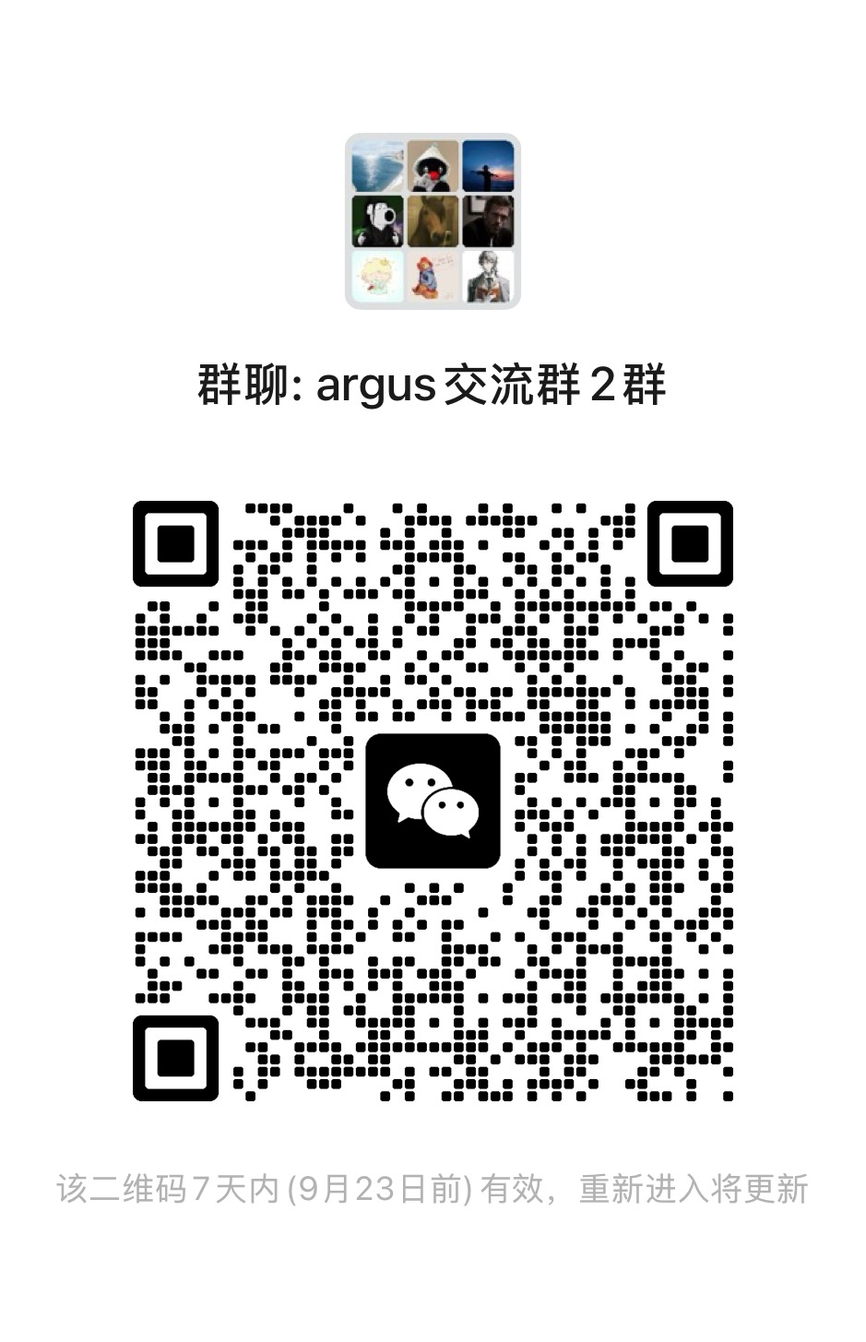
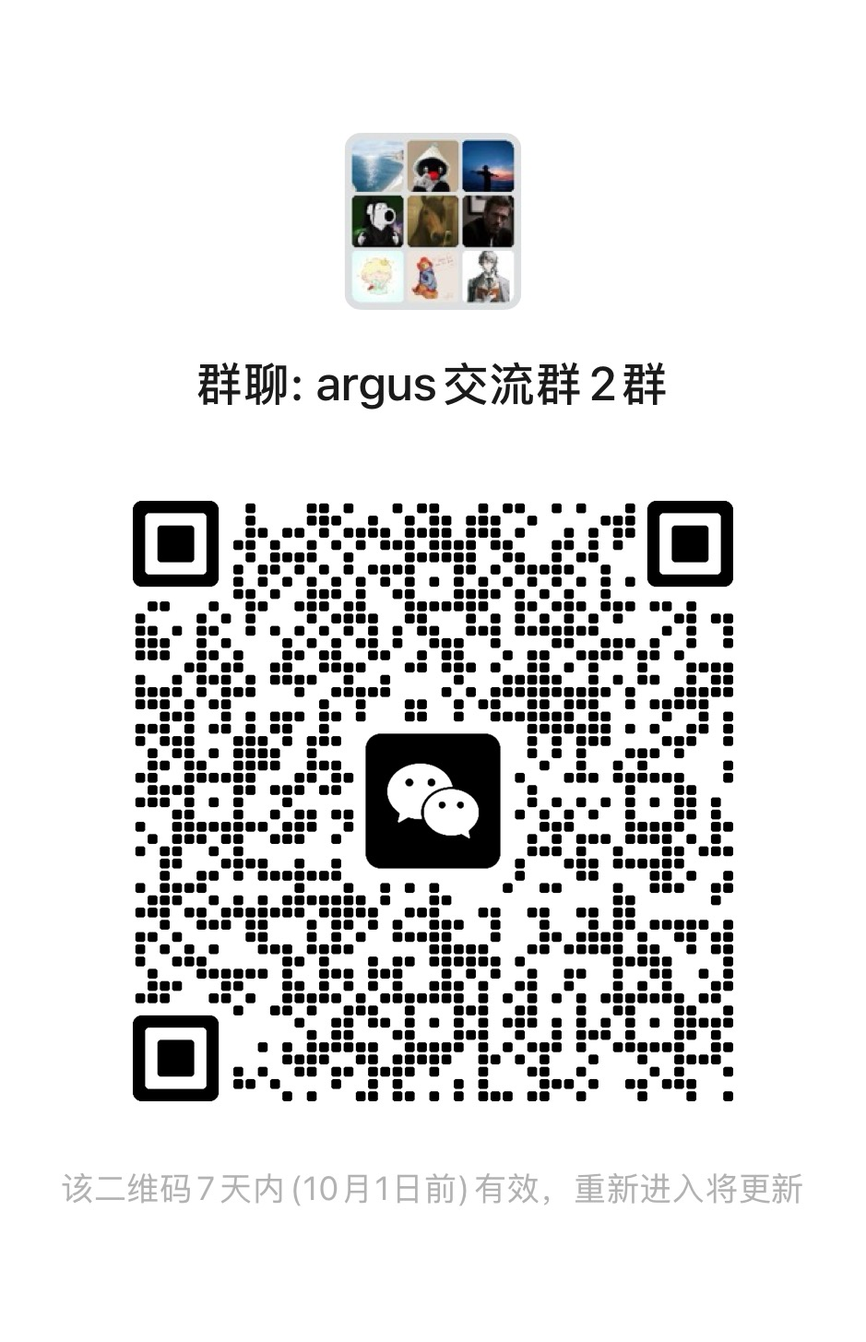
Update Windows/Mac releases and September 24 community QR (#57)
Publish independent Windows v0.1.8 / Mac v0.1.9 / Linux and Python v0.1.6 downloads, accurate release/source boundaries, and the new bilingual community QR.

diff --git a/src/data/projects.ts b/src/data/projects.ts
@@ -48,6 +48,9 @@ export type Project = {
 
 export const windowsReleaseNotes = {
   en: [
+    `Windows v${desktopRelease.windows.version} keeps in-memory drafts and attachments per session and protects new input during uploads or sends. This does not preserve drafts across a page refresh. Notifications open the corresponding session's result while respecting your latest navigation.`,
+    "Plugins, Skills and Knowledge now sit above the session list. Source-bound Chinese names, guides and search cover 211 bundled Skills and references without replacing their execution text or rewriting user and third-party files. Read-only diffs offer highlighting, original text and copy; Windows knowledge reads handle CRLF newlines.",
+    "This installer uses a frozen development branch and does not include the later main-branch research orchestration, mission-recovery and runtime-incident fixes. A newer source snapshot is not an installer feature list.",
     `Windows v${desktopRelease.windows.version} defaults to the map when no workspace is explicitly selected or saved. Its Skill file browser covers global, vertical and project Skills with recent updates; these are reusable files, not proof of model-weight training.`,
     "Interactive research proposals support duration, resource, dependency and deadline planning, plus version comparison. Saving a proposal does not launch experiments or change the backlog; estimates are not guaranteed deadlines.",
     "Ordinary research reading includes “Ask this step”: a valid saved source and explicit submission are required; read-only views cannot submit. Answers use the saved explanation and its task/event snapshots, are saved separately without changing research tasks, and do not count as research progress. Problem background notes remain an opt-in experimental preview. Generation uses a model and counts toward usage; teaching review is not scientific acceptance.",
@@ -55,6 +58,9 @@ export const windowsReleaseNotes = {
     "Own-account cost accounting distinguishes priced and unresolved usage: the default unpriced-cost policy can stop later own-account calls. Trial users' local dollar records remain not_billed; trial token quotas are enforced server-side. This is not a universal block across modes.",
   ],
   zh: [
+    `Windows v${desktopRelease.windows.version} 按会话保留内存草稿与附件，并保护上传或发送过程中的新输入；不保证刷新页面后仍保留草稿。通知可定位对应会话的成果，同时尊重用户最近一次导航。`,
+    "插件、技能库和知识库入口集中到会话列表上方。211 项随包技能与参考资料提供来源绑定的中文名称、导读和搜索，不替换执行原文，也不改写用户或第三方文件。只读 diff 支持着色、原文与复制，知识库读取兼容 Windows CRLF 换行。",
+    "此安装包基于冻结的开发分支，不包含随后 main 合入的研究编排、任务恢复及运行时 incident 修复；不能把最新源码变化全部算作安装包功能。",
     `Windows v${desktopRelease.windows.version} 在没有显式选择或已保存工作区时默认进入地图。Skill 文件浏览器覆盖全局、领域和项目 Skills，并展示最近更新；这些是可复用文件，不是模型权重训练的证明。`,
     "交互式研究方案支持时长、资源、依赖和截止日期规划，以及版本比较。保存方案不会启动实验或改变 backlog；估算不等于保证按期完成。",
     "普通研究阅读已包含“问这一步”：需有有效的已保存来源并由用户明确提交，只读视图不能提交新问题。回答依据保存的说明与任务／事件快照另存，不修改研究任务，也不算新的研究进展。问题基础说明仍是需显式启用的实验预览。生成过程调用模型并计入用量；教学复核不等于科研结论验收。",
@@ -63,10 +69,28 @@ export const windowsReleaseNotes = {
   ],
 } as const;
 
+export const macReleaseNotes = {
+  en: [
+    `Mac v${desktopRelease.mac.version} ships separate Apple Silicon and Intel DMGs for macOS 13+. It bundles the frozen Python backend and Web workbench; trial setup needs no preinstalled Python, uv or Node.js. Own-account use still requires the chosen Agent CLI and its account.`,
+    "Finder launches now discover Homebrew CLIs on both architectures and locate Node for npm-installed CLI scripts, without editing shell startup files or the system PATH. Connection failures retain specific errors while hiding the trial Key.",
+    "Download this Mac update manually from its versioned release page: GitHub's Latest marker remains on the Windows release. Stop the local backend and quit before replacing the app, eject the DMG, then launch from Applications. The app is not Apple Developer ID signed or notarized; use Privacy & Security → Open Anyway if blocked, without disabling Gatekeeper.",
+    "The release reports a real Copilot-account reply on Apple Silicon, not verification of every backend account or long-running research task. Existing Codex, Claude, Cursor, Pi and other backend choices remain available.",
+  ],
+  zh: [
+    `Mac v${desktopRelease.mac.version} 分别提供 Apple Silicon 与 Intel DMG，最低 macOS 13。包内带冻结 Python 后端和 Web 工作台；试用无需预装 Python、uv 或 Node.js。自带账号仍需准备所选 Agent CLI 与对应账号。`,
+    "修复 Finder 启动时找不到两种架构的 Homebrew CLI，以及 npm 安装的 CLI 找不到 Node 的问题；不修改 shell 启动文件或系统 PATH。连接失败保留具体错误，并隐藏试用 Key。",
+    "本次 Mac 更新请从对应版本发布页手动下载：GitHub 的 Latest 标记仍留给 Windows。替换前先停止本地后端并退出，安装后弹出 DMG，再从“应用程序”启动。应用未经过 Apple Developer ID 签名和公证；被阻止时使用“隐私与安全性 → 仍要打开”，不要关闭 Gatekeeper。",
+    "发行说明记录了 Apple Silicon 上个人 Copilot 账号的真实回复，不代表每种后端账号或长程科研任务均已实测。既有 Codex、Claude、Cursor、Pi 等后端入口仍保留。",
+  ],
+} as const;
+
 export const sourcePreviewNotes = {
   en: [
-    `Post-release source preview reviewed ${sourcePreview.reviewedOn} at ${sourcePreview.revision}: lbx154/Argus main now separates 7 built-in verticals from 17 preexisting community domain packs. Windows v${sourcePreview.windowsBaseline} predates this split and retains 24 built-in verticals; Mac / Linux remain at v${sourcePreview.macLinuxBaseline}. These source changes do not imply synchronization to microsoft/ArgusAgent.`,
-    `The source-only Vertical Store adds CLI, API and UI access to individual community packs; it is not included in Windows v${sourcePreview.windowsBaseline}. Packs install without pip, and dependency listings do not automatically install scientific Python dependencies. Hosted installation and other shared changes remain operator-controlled, while personal enable/disable choices stay separate. A project whose persisted vertical is missing is held rather than silently switched to research.`,
+    `Development-source snapshot reviewed ${sourcePreview.reviewedOn} at ${sourcePreview.revision}. Release channels remain separate: ${desktopRelease.platformVersionLabel}. These source changes do not imply synchronization to microsoft/ArgusAgent or inclusion in every desktop package.`,
+    "The knowledge browser separates global, vertical and project pages with search and recent updates. Latest main names the originating project in the knowledge feed and records Manager tool activity during chat turns, instead of equating every reply with a completed research task. Saved knowledge and Skills are reusable artifacts, not model-weight training.",
+    "The research map presents work and review stages, recorded dependencies and mobile-friendly readers. Generated explanations and relationship labels do not change scheduling dependencies, rerun experiments or establish scientific acceptance; model-generated reading still counts toward usage.",
+    "TypeScript migration is only beginning: shared event contracts and an experimental Pi streaming adapter are available in source. Python still owns production task state, budgets and stage transitions. The adapter is not a replacement argus command or a budgeted mission runner; full runtime parity is not claimed.",
+    `Windows v${desktopRelease.windows.version} and Mac v${desktopRelease.mac.version} now include the 7-built-in / 17-community split and Vertical Store; Linux v${desktopRelease.linux.version} predates it. Packs install without pip, and dependency listings do not automatically install scientific Python dependencies. Hosted shared changes remain operator-controlled, while personal enable/disable choices stay separate.`,
     "For source developers, the Python package migrates from argus_skill to argus, with compatibility aliases for one release. Existing state locations and environment-variable spellings stay unchanged. This source migration does not require desktop users to reinstall.",
     "Hosted features require independent operator deployment and invitation-based authorization; ordinary desktop or Web installation does not enable the service. Hosted model and compute allowances remain separate from the desktop Key's one-million-token rule.",
     "Raw process observations cover Manager, Planner, Engineer and Reviewer records, including failed and interrupted attempts. Export checks purpose-specific authorization and revocation, but does not require per-sample quality approval or certify training readiness. Observations retain the application's system/developer inputs while excluding structured hidden reasoning and signatures; inspect and redact them before sharing.",
@@ -74,8 +98,11 @@ export const sourcePreviewNotes = {
     "Community or plugin Skills are not automatically approved assets for strict public/SFT export; their availability or license does not replace authorization, review or filtering.",
   ],
   zh: [
-    `${sourcePreview.reviewedOn} 核对的发布后源码预览（${sourcePreview.revision}）：lbx154/Argus main 现将 7 个内置领域与 17 个既有社区领域包分开。Windows v${sourcePreview.windowsBaseline} 早于此次拆分，仍内置 24 个领域；Mac / Linux 仍为 v${sourcePreview.macLinuxBaseline}。这些源码改动不代表 microsoft/ArgusAgent 已同步。`,
-    `仅后续源码提供的 Vertical Store 支持通过 CLI、API 和 UI 按领域获取社区包，Windows v${sourcePreview.windowsBaseline} 不包含 Store。领域包安装无需 pip，依赖清单也不会自动安装科学 Python 依赖。托管环境的安装及其他共享变更由运营方控制，个人启用／停用选择与之分开。若项目持久化记录的领域缺失，会暂缓执行，而不是静默切回 research 领域。`,
+    `${sourcePreview.reviewedOn} 核对的开发源码快照（${sourcePreview.revision}）。发行渠道仍需区分：${desktopRelease.platformVersionLabel}。这些源码改动不代表 microsoft/ArgusAgent 已同步，也不代表每个平台的安装包都已包含。`,
+    "知识库按全局、领域和项目分层，支持搜索与最近更新。最新 main 会在知识动态中显示来源项目，并记录聊天期间 Manager 的工具活动，不把每次回复等同于完成科研任务。保存的知识与 Skills 是可复用产物，不是模型权重训练。",
+    "研究地图呈现执行与验收阶段、已记录的依赖和适合手机阅读的详情。生成的解释与关系标签不改变调度依赖、不重跑实验，也不构成科研验收；模型生成的阅读说明仍计入用量。",
+    "TypeScript 迁移刚起步：源码已提供共享事件协议与实验性 Pi 流式适配器。生产任务状态、预算与阶段转换仍由 Python 管理；适配器不是 argus 命令或带预算的任务执行器替代品，也未宣称完整运行时等价。",
+    `Windows v${desktopRelease.windows.version} 与 Mac v${desktopRelease.mac.version} 已包含 7 个内置领域／17 个社区领域的拆分和 Vertical Store；Linux v${desktopRelease.linux.version} 早于此次变化。领域包安装无需 pip，依赖清单也不会自动安装科学 Python 依赖。托管共享变更仍由运营方控制，个人启用／停用选择与之分开。`,
     "面向源码开发者，Python 包从 argus_skill 迁移至 argus，旧名称兼容别名保留一个版本。既有状态位置和环境变量拼写不变；这次源码迁移不要求桌面用户重新安装。",
     "托管功能需要运营方独立部署和邀请授权，不会随普通桌面版或 Web 安装自动开放；模型与计算额度独立于桌面 Key 的 100 万 token 规则。",
     "原始过程观察覆盖 Manager、Planner、Engineer 与 Reviewer 的记录，包括失败和中断的尝试。导出检查用途授权与撤销状态，但不要求逐样本质量审批，也不代表已达到训练质量。观察记录会保留应用侧 system/developer 输入，排除结构化隐藏推理与签名；分享前需人工检查和脱敏。",
@@ -159,9 +186,10 @@ export const projects: Project[] = [
         "Durable project state retains tasks, checkpoints, decisions, skills, and evidence across sessions and runtime upgrades.",
         "The technical report records about 78% on SWE-Bench Pro versus 59% for Direct Copilot, with 1.41× aggregate tokens.",
         "Six paper pipelines completed 254 missions with 16 stage rollbacks recorded in the report.",
-        `Since v${desktopRelease.macLinux.version}, desktop releases include Change Key controls that preserve projects and chat history, current backend/model/reasoning display, clearer theme icons and responsive titles. Account fences remain paused until explicit resumption; execution ending does not certify the research objective as complete.`,
-        `Since v${desktopRelease.macLinux.version}, desktop releases include streamed Manager replies and tool-call display, map and activity-feed improvements, Excel (.xlsx) delivery recognition and optional workbench host integration. The bundled runtime supports stdin scripts (python -) and python -m unittest with test-failure exit codes preserved; it is not a general-purpose Python installation and provides neither pip nor venv.`,
+        `Since v${desktopRelease.linux.version}, desktop releases include Change Key controls that preserve projects and chat history, current backend/model/reasoning display, clearer theme icons and responsive titles. Account fences remain paused until explicit resumption; execution ending does not certify the research objective as complete.`,
+        `Since v${desktopRelease.linux.version}, desktop releases include streamed Manager replies and tool-call display, map and activity-feed improvements, Excel (.xlsx) delivery recognition and optional workbench host integration. The bundled runtime supports stdin scripts (python -) and python -m unittest with test-failure exit codes preserved; it is not a general-purpose Python installation and provides neither pip nor venv.`,
         ...windowsReleaseNotes.en,
+        ...macReleaseNotes.en,
         ...sourcePreviewNotes.en,
       ],
       zh: [
@@ -169,9 +197,10 @@ export const projects: Project[] = [
         "持久化项目状态能够跨会话和运行时升级保留任务、检查点、决策、Skills 与证据。",
         "技术报告记录 SWE-Bench Pro 约 78%，Direct Copilot 为 59%，总 Token 使用量为 1.41 倍。",
         "报告中的六条论文流水线共完成 254 个 mission，并发生 16 次阶段回滚。",
-        `自 v${desktopRelease.macLinux.version} 起，桌面版已包含保留项目和聊天记录的更换 Key 入口、当前后端／模型／推理强度显示，以及更清晰的日夜图标和响应式标题。账户阻塞会保留为暂停，需显式恢复；执行结束不等于研究目标已通过验收。`,
-        `自 v${desktopRelease.macLinux.version} 起，桌面版已包含 Manager 流式回复与工具调用展示、地图和活动记录改进、Excel（.xlsx）交付识别及可选工作台宿主集成。内置运行时支持标准输入脚本（python -）与 python -m unittest，保留测试失败退出码；它不是完整的通用 Python 环境，不提供 pip 或 venv。`,
+        `自 v${desktopRelease.linux.version} 起，桌面版已包含保留项目和聊天记录的更换 Key 入口、当前后端／模型／推理强度显示，以及更清晰的日夜图标和响应式标题。账户阻塞会保留为暂停，需显式恢复；执行结束不等于研究目标已通过验收。`,
+        `自 v${desktopRelease.linux.version} 起，桌面版已包含 Manager 流式回复与工具调用展示、地图和活动记录改进、Excel（.xlsx）交付识别及可选工作台宿主集成。内置运行时支持标准输入脚本（python -）与 python -m unittest，保留测试失败退出码；它不是完整的通用 Python 环境，不提供 pip 或 venv。`,
         ...windowsReleaseNotes.zh,
+        ...macReleaseNotes.zh,
         ...sourcePreviewNotes.zh,
       ],
     },
@@ -186,6 +215,8 @@ export const projects: Project[] = [
       { kind: "report", href: "https://arxiv.org/abs/2608.05144" },
       { kind: "status", href: sourcePreview.changesUrl },
       { kind: "documentation", href: sourcePreview.hostedGuideUrl },
+      { kind: "documentation", href: sourcePreview.mapGuideUrl },
+      { kind: "documentation", href: sourcePreview.typescriptGuideUrl },
     ],
   },
   {
@@ -244,14 +275,14 @@ export const projects: Project[] = [
     },
     highlights: {
       en: [
-        `Version 0.4.0 is independently distributed. Desktop releases since v${desktopRelease.macLinux.version} include its host integration, but CrystalPilot still requires separate installation; no workbench plugin is enabled by default.`,
+        `Version 0.4.0 is independently distributed. Desktop releases since v${desktopRelease.linux.version} include its host integration, but CrystalPilot still requires separate installation; no workbench plugin is enabled by default.`,
         "Compatible hosts install the pinned, SHA-256-checked package from the plugin center into an isolated environment. Supported backends are Codex, Copilot and Pi, including supported mixed-role configurations.",
         "Prepares scientific dependencies automatically; optional or licensed dependencies remain explicit. SHELX requires authorization from its author. Scientific binaries, model credentials and research datasets are not bundled in the distribution.",
         "Separate workbench conversations and project bindings preserve ownership. Updates are manual and staged; uninstalling preserves research data, conversations and reusable software.",
         "Proprietary: TopoSpace reserves all rights and prohibits unauthorized commercial use or derivative development. Public source availability is not an open-source license; the host integration and third-party components have separate terms.",
       ],
       zh: [
-        `0.4.0 独立分发；桌面版自 v${desktopRelease.macLinux.version} 起已包含宿主集成，但 CrystalPilot 仍需单独安装，默认不启用任何工作台插件。`,
+        `0.4.0 独立分发；桌面版自 v${desktopRelease.linux.version} 起已包含宿主集成，但 CrystalPilot 仍需单独安装，默认不启用任何工作台插件。`,
         "兼容宿主通过插件中心安装固定版本、经过 SHA-256 核对的软件包，并使用隔离环境；支持 Codex、Copilot、Pi 及这些后端的混合角色配置。",
         "自动准备科学依赖，缺失的可选或授权组件会明确提示；SHELX 需向原作者取得许可。发行物不包含上游科学二进制、模型凭据或研究数据。",
         "独立工作台会话与项目绑定保留权属边界；更新需手动触发并分阶段切换，卸载保留研究数据、对话和可复用软件。",
@@ -260,13 +291,13 @@ export const projects: Project[] = [
     },
     outcome: {
       en: `Optional CrystalPilot 0.4.0 for compatible Argus hosts, including ${desktopRelease.platformVersionLabel}.`,
-      zh: `为兼容的 Argus 宿主提供可选 CrystalPilot 0.4.0，包括 Windows v${desktopRelease.windows.version} 与 Mac / Linux v${desktopRelease.macLinux.version}。`,
+      zh: `为兼容的 Argus 宿主提供可选 CrystalPilot 0.4.0，包括 ${desktopRelease.platformVersionLabel}。`,
     },
     technologies: ["Crystallography", "Python", "Codex / Copilot / Pi", "Bilingual"],
     links: [
       { kind: "documentation", href: "https://crystalpilot-downloads.argusbot.cn/" },
-      { kind: "status", href: desktopRelease.macLinux.workbenchGuideUrl },
-      { kind: "license", href: `${desktopRelease.macLinux.workbenchGuideUrl}#crystalpilot-licensing` },
+      { kind: "status", href: desktopRelease.linux.workbenchGuideUrl },
+      { kind: "license", href: `${desktopRelease.linux.workbenchGuideUrl}#crystalpilot-licensing` },
     ],
   },
   {
@@ -275,8 +306,8 @@ export const projects: Project[] = [
     status: "active",
     title: "Argus Verticals",
     description: {
-      en: "Published MIT community domain packs for compatible post-release Argus source, not a desktop Store release.",
-      zh: "已发布的 MIT 社区领域包，面向兼容的 Argus 发布后源码，不是桌面 Store 发行版。",
+      en: "Published MIT community domain packs for compatible Argus source and the newer Windows and Mac desktop releases.",
+      zh: "已发布的 MIT 社区领域包，支持兼容的 Argus 源码及新版 Windows、Mac 桌面宿主。",
     },
     problem: {
       en: "Specialist Skills should be available per domain without bundling every field into the runtime. Argus Verticals separates reusable community packs from core built-ins and independently licensed workbenches.",
@@ -286,15 +317,15 @@ export const projects: Project[] = [
       en: [
         "Published 2026-09-14: MIT v0.1.0 provides 17 per-domain ZIP assets plus catalog.json and SHA256SUMS.",
         "These are 17 preexisting domains split out from Argus, spanning chips, circuits, materials, biomedical evidence, physics, quantitative research, literary research and benchmarks—not 17 new research results.",
-        `Requires compatible Argus source after the September 14 split and package rename. That source keeps 7 built-in verticals; Windows v${desktopRelease.windows.version} predates the split, keeps 24 built-in verticals and does not include the Vertical Store.`,
-        "The source Vertical Store installs individual domain packs without pip. It lists dependencies but does not automatically install scientific Python dependencies; hosted shared changes remain operator-controlled and personal enable/disable choices remain separate.",
+        `Windows v${desktopRelease.windows.version}, Mac v${desktopRelease.mac.version} and compatible source include the Vertical Store and keep 7 built-in verticals. Linux v${desktopRelease.linux.version} predates this split; its package is not upgraded by the newer releases on other platforms.`,
+        "The Vertical Store installs individual domain packs without pip. It lists dependencies but does not automatically install scientific Python dependencies; hosted shared changes remain operator-controlled and personal enable/disable choices remain separate.",
         "MIT community Skills are separate from proprietary CrystalPilot and do not bundle its scientific environment. Installing a pack does not approve its contents for strict public/SFT export or establish scientific results.",
       ],
       zh: [
         "2026-09-14 已发布：MIT 许可的 v0.1.0 提供 17 个按领域分发的 ZIP 资产，以及 catalog.json 和 SHA256SUMS。",
         "这是从 Argus 拆出的 17 个既有领域，涵盖芯片、电路、材料、生物医学证据、物理、量化研究、文学研究和基准测试，不是 17 项新的科研成果。",
-        `需要兼容 9 月 14 日领域拆分及包重命名之后的 Argus 源码。该源码保留 7 个内置领域；Windows v${desktopRelease.windows.version} 早于拆分，仍内置 24 个领域，且不包含 Vertical Store。`,
-        "源码 Vertical Store 按领域安装社区包，无需 pip；它列出依赖，但不会自动安装科学 Python 依赖。托管共享变更仍由运营方控制，个人启用／停用选择与之分开。",
+        `Windows v${desktopRelease.windows.version}、Mac v${desktopRelease.mac.version} 及兼容源码已包含 Vertical Store，并保留 7 个内置领域。Linux v${desktopRelease.linux.version} 早于此次拆分，不会因其他平台发布新版而自动获得这些变化。`,
+        "Vertical Store 按领域安装社区包，无需 pip；它列出依赖，但不会自动安装科学 Python 依赖。托管共享变更仍由运营方控制，个人启用／停用选择与之分开。",
         "MIT 社区 Skills 与专有 CrystalPilot 相互独立，不包含其科学环境。安装领域包不等于内容已获严格 public/SFT 导出批准，也不证明科研结论。",
       ],
     },

diff --git a/src/data/desktopRelease.ts b/src/data/desktopRelease.ts
@@ -10,15 +10,17 @@ function releaseMetadata(version: string) {
   };
 }
 
-const windows = releaseMetadata("0.1.7");
-const macLinux = releaseMetadata("0.1.6");
-const { version, assetsUrl: assets } = macLinux;
+const windows = releaseMetadata("0.1.8");
+const mac = releaseMetadata("0.1.9");
+const linux = releaseMetadata("0.1.6");
+const { version, assetsUrl: assets } = linux;
 
 export const desktopRelease = {
   windows,
-  macLinux,
+  mac,
+  linux,
   platforms: "Windows / Mac / Linux",
-  platformVersionLabel: `Windows v${windows.version} · Mac / Linux v${macLinux.version}`,
+  platformVersionLabel: `Windows v${windows.version} · Mac v${mac.version} · Linux v${linux.version}`,
   python: {
     version,
     wheelUrl: `${assets}/argus_skill-${version}-py3-none-any.whl`,
@@ -32,35 +34,35 @@ export const desktopRelease = {
       platform: "Windows 10/11",
       architecture: "x64",
       format: "EXE",
-      size: "33.6 MiB",
+      size: "49.3 MiB",
       downloadUrl: `${windows.assetsUrl}/Argus-${windows.version}-setup.exe`,
       signatureUrl: `${windows.assetsUrl}/Argus-${windows.version}-setup.exe.sig`,
[2 lines of base64/hex data omitted]
     },
     {
-      ...macLinux,
+      ...mac,
       id: "macos-aarch64",
       os: "macos",
       platform: "macOS 13+",
       architecture: "Apple Silicon",
       format: "DMG",
-      size: "47.0 MiB",
-      downloadUrl: `${assets}/Argus-${version}-macos-aarch64.dmg`,
[1 lines of base64/hex data omitted]
+      size: "101.7 MiB",
+      downloadUrl: `${mac.assetsUrl}/Argus-${mac.version}-macos-aarch64.dmg`,
[1 lines of base64/hex data omitted]
     },
     {
-      ...macLinux,
+      ...mac,
       id: "macos-x86_64",
       os: "macos",
       platform: "macOS 13+",
       architecture: "Intel",
       format: "DMG",
-      size: "46.9 MiB",
-      downloadUrl: `${assets}/Argus-${version}-macos-x86_64.dmg`,
[1 lines of base64/hex data omitted]
+      size: "101.6 MiB",
+      downloadUrl: `${mac.assetsUrl}/Argus-${mac.version}-macos-x86_64.dmg`,
[1 lines of base64/hex data omitted]
     },
     {
-      ...macLinux,
+      ...linux,
       id: "linux-appimage",
       os: "linux",
       platform: "Linux desktop",
@@ -72,7 +74,7 @@ export const desktopRelease = {
[1 lines of base64/hex data omitted]
     },
     {
-      ...macLinux,
+      ...linux,
       id: "linux-deb",
       os: "linux",
       platform: "Ubuntu / Debian",

diff --git a/src/data/projectUpdates.ts b/src/data/projectUpdates.ts
@@ -1,15 +1,15 @@
 import { desktopRelease } from "./desktopRelease";
 
-const revision = "ba1dd5f924";
+const revision = "2d51186ad4";
 
 export const sourcePreview = {
-  reviewedOn: "2026-09-15",
-  windowsBaseline: desktopRelease.windows.version,
-  macLinuxBaseline: desktopRelease.macLinux.version,
+  reviewedOn: "2026-09-24",
   revision,
   changesUrl: `https://github.com/lbx154/Argus/compare/v${desktopRelease.windows.version}...${revision}`,
   hostedGuideUrl: `https://github.com/lbx154/Argus/blob/${revision}/docs/hosted-research-trial.md`,
   verticalStoreGuideUrl: `https://github.com/lbx154/Argus/blob/${revision}/docs/vertical-store.md`,
+  mapGuideUrl: `https://github.com/lbx154/Argus/blob/${revision}/docs/research-map.md`,
+  typescriptGuideUrl: `https://github.com/lbx154/Argus/blob/${revision}/docs/typescript-migration.md`,
 } as const;
 
 export const mathematicsSnapshot = {
